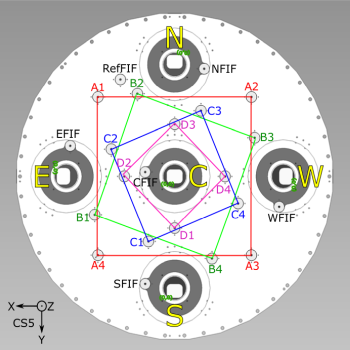
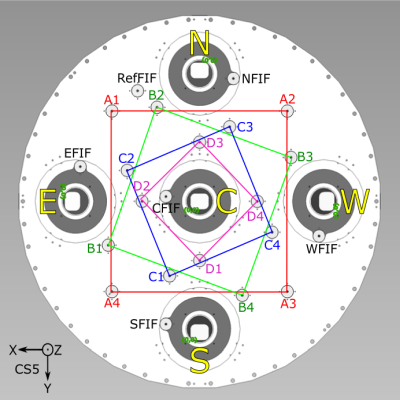
comment edit

diff --git a/inputGUI.py b/inputGUI.py
@@ -65,47 +65,47 @@ class inputGUI(object):
         ###Buttons
         ########################################################################### 
         #Guided Mode Label
-        tk.Label(master, text="Guided Mode", font="bold").grid(row=0, column=0, columnspan=2, sticky='W')
+        tk.Label(master, text="Guided Mode", font="bold").grid(row=2, column=0, columnspan=2, sticky='W')
         #Guided Mode Description
-        tk.Label(master, text="Be guided through measuring the CI FIFs.").grid(row=1, column=0, columnspan=2, sticky='W')
+        tk.Label(master, text="Be guided through measuring the CI FIFs.").grid(row=3, column=0, columnspan=2, sticky='W')
         #Guided Mode Button        
-        tk.Button(master, text="Begin FIF Guided Mode",bg = "white", command=lambda:self._beginGuidedMode(master, self.consoleLog, self.logFile)).grid(row=2, column=0, columnspan=2, sticky='W')
+        tk.Button(master, text="Begin FIF Guided Mode",bg = "white", command=lambda:self._beginGuidedMode(master, self.consoleLog, self.logFile)).grid(row=4, column=0, columnspan=2, sticky='W')
         
         #FIF Map
-        self.fifMAP = tk.PhotoImage(file="FPA.png", width=350, height=350)
-        tk.Label(image=self.fifMAP).grid(row=0, column=4, rowspan=11, sticky='W')  
+        self.fifMAP = tk.PhotoImage(file="FPA.png", width=400, height=400)
+        tk.Label(image=self.fifMAP).grid(row=0, column=4, rowspan=13, sticky='W')  
         
         #Grid Separator
-        Separator(master, orient="horizontal").grid(row=3, column=0, columnspan=4, sticky='ew')
+        Separator(master, orient="horizontal").grid(row=5, column=0, columnspan=4, sticky='ew')
         Style(master).configure("TSeparator", background="black")
         
         #Manual Mode Labels
-        tk.Label(master, text="Manual Mode", font="bold").grid(row=4, column=0, columnspan=2, sticky='W')
+        tk.Label(master, text="Manual Mode", font="bold").grid(row=6, column=0, columnspan=2, sticky='W')
         #Manual Mode Description
-        tk.Label(master, text="Perform manual measurements").grid(row=5, column=0, columnspan=2, sticky='W')
+        tk.Label(master, text="Perform manual measurements").grid(row=7, column=0, columnspan=2, sticky='W')
         #Manual Mode FIF Focus Curve
-        tk.Button(master, text="FIF Focus Curve",bg = "white", command=lambda:self._beginManualMode(master, self.consoleLog, self.logFile, "manualFIFFocusCurve")).grid(row=6, column=0, columnspan=1, sticky='W')
+        tk.Button(master, text="FIF Focus Curve",bg = "white", command=lambda:self._beginManualMode(master, self.consoleLog, self.logFile, "manualFIFFocusCurve")).grid(row=8, column=0, columnspan=1, sticky='W')
         #Manual Mode CCD Focus Curve
-        tk.Button(master, text="CCD Focus Curve",bg = "white", command=lambda:self._beginManualMode(master, self.consoleLog, self.logFile, "manualCCDFocusCurve")).grid(row=6, column=1, columnspan=1, sticky='W')
+        tk.Button(master, text="CCD Focus Curve",bg = "white", command=lambda:self._beginManualMode(master, self.consoleLog, self.logFile, "manualCCDFocusCurve")).grid(row=8, column=1, columnspan=1, sticky='W')
         #Manual Mode CCD Tip/Tilt/Z
-        tk.Button(master, text="CCD Tip/Tilt/Z",bg = "white", command=lambda:self._beginManualMode(master, self.consoleLog, self.logFile, "CCDTipTiltZ")).grid(row=7, column=0, columnspan=2, sticky='W')
+        tk.Button(master, text="CCD Tip/Tilt/Z",bg = "white", command=lambda:self._beginManualMode(master, self.consoleLog, self.logFile, "CCDTipTiltZ")).grid(row=9, column=0, columnspan=2, sticky='W')
         #Print focusCurve Dictionary of Nominal Values to Log/Console
-        tk.Button(master, text="Print Nominal Values",bg = "white", command=lambda:self._printDictOfNominalCIValues()).grid(row=7, column=1, columnspan=2, sticky='W')
+        tk.Button(master, text="Print Nominal Values",bg = "white", command=lambda:self._printDictOfNominalCIValues()).grid(row=9, column=1, columnspan=2, sticky='W')
 
         #Grid Separator
-        Separator(master, orient="horizontal").grid(row=8, column=0, columnspan=4, sticky='ew')
+        Separator(master, orient="horizontal").grid(row=10, column=0, columnspan=4, sticky='ew')
         #Style(master).configure("TSeparator", background="black")   
  
         #Note Text Box Label
-        tk.Label(master, text="Add Note to Log", font="bold").grid(row=9, column=0, columnspan=2, sticky='W')
+        tk.Label(master, text="Add Note to Log", font="bold").grid(row=11, column=0, columnspan=2, sticky='W')
         #Note Text Box
         noteBox = tk.Entry(master, width=40)
-        noteBox.grid(row=10, column=0, columnspan=5, sticky='W')
+        noteBox.grid(row=12, column=0, columnspan=5, sticky='W')
         #Note Text Submit Button
-        tk.Button(master, text='Submit', bg = "white", command=lambda:self._log_entry_field(noteBox, self.consoleLog, self.logFile)).grid(row=10, column=2, columnspan=2)
+        tk.Button(master, text='Submit', bg = "white", command=lambda:self._log_entry_field(noteBox, self.consoleLog, self.logFile)).grid(row=12, column=2, columnspan=2)
         
         #Grid Separator
-        Separator(master, orient="horizontal").grid(row=11, column=0, columnspan=4, sticky='ew')
+        Separator(master, orient="horizontal").grid(row=13, column=0, columnspan=4, sticky='ew')
         #Style(master).configure("TSeparator", background="black")   
 
         ###########################################################################
@@ -114,7 +114,7 @@ class inputGUI(object):
         # create a Text widget with a Scrollbar attached
         self.consoleLog = ScrolledText.ScrolledText(self.master, undo=True)
         self.consoleLog['font'] = ('consolas', '10')
-        self.consoleLog.grid(row=12, column=0, columnspan=5, sticky='ew') 
+        self.consoleLog.grid(row=14, column=0, columnspan=5, sticky='ew') 
         # start log
         startTime = time.strftime("%Y-%m-%dT%H%M%SZ")
         self.logFile = open("DESI_CI_MET_" + startTime + "_log.txt", "w")

diff --git a/centroidFIF.py b/centroidFIF.py
@@ -1,7 +1,7 @@
 '''
 @title centroidFIF
 @author: Rebecca Coles
-Updated on Jan 14, 2018
+Updated on Feb 14, 2018
 Created on Dec 12, 2017
 
 centroidPinHoleImage
@@ -253,17 +253,9 @@ class centroidFIF(object):
         Find FIF in image using intensity.
         '''
         ###########################################################################
-        ###Read pixel size from header
-        ###########################################################################
-        #Camera pixel size in um
-
-        faah = fileAndArrayHandling()
-        faah.pageLogging(consoleLog, logFile, 
-                    "Camera pixel size: " + str(self.pixelSize)) #!!!!!!!!!!!!!!!!!READ FROM HEADER
-
-        ###########################################################################
         ###Find distance in um to CCD Origin
-        ###########################################################################        
+        ###########################################################################       
+        faah = fileAndArrayHandling() 
         hypotenuse = np.sqrt(math.pow((rows*self.pixelSize),2)+math.pow((columns*self.pixelSize),2))
         faah.pageLogging(consoleLog, logFile, 
                     "Distance from pinhole center to sensor origin: " + str(hypotenuse) + 'um')
